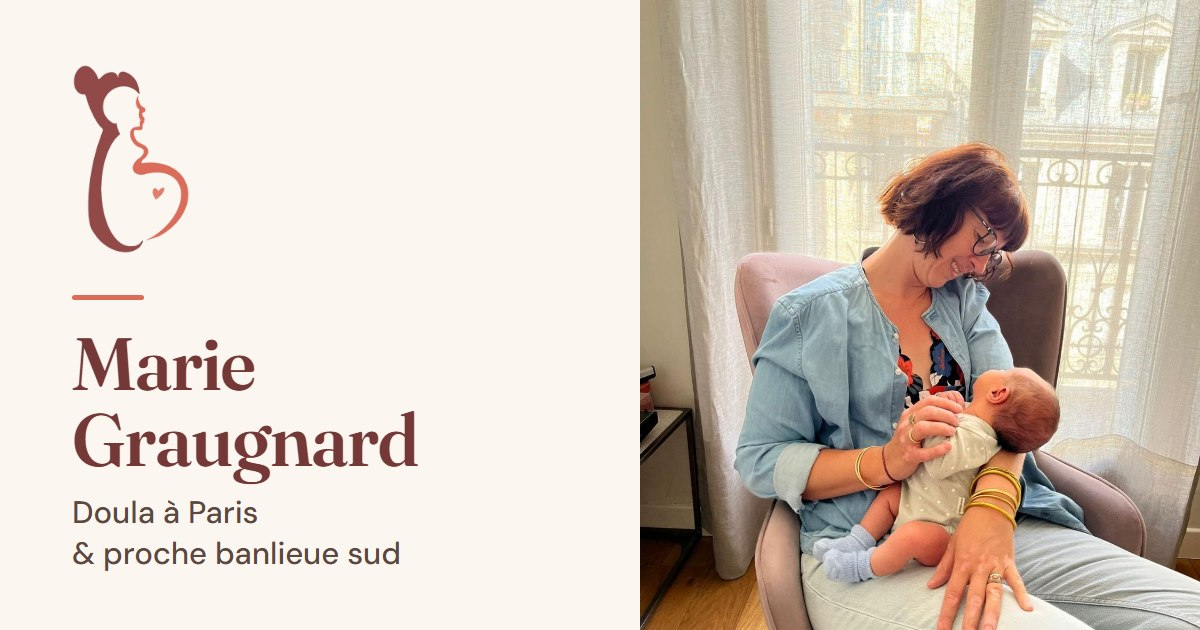
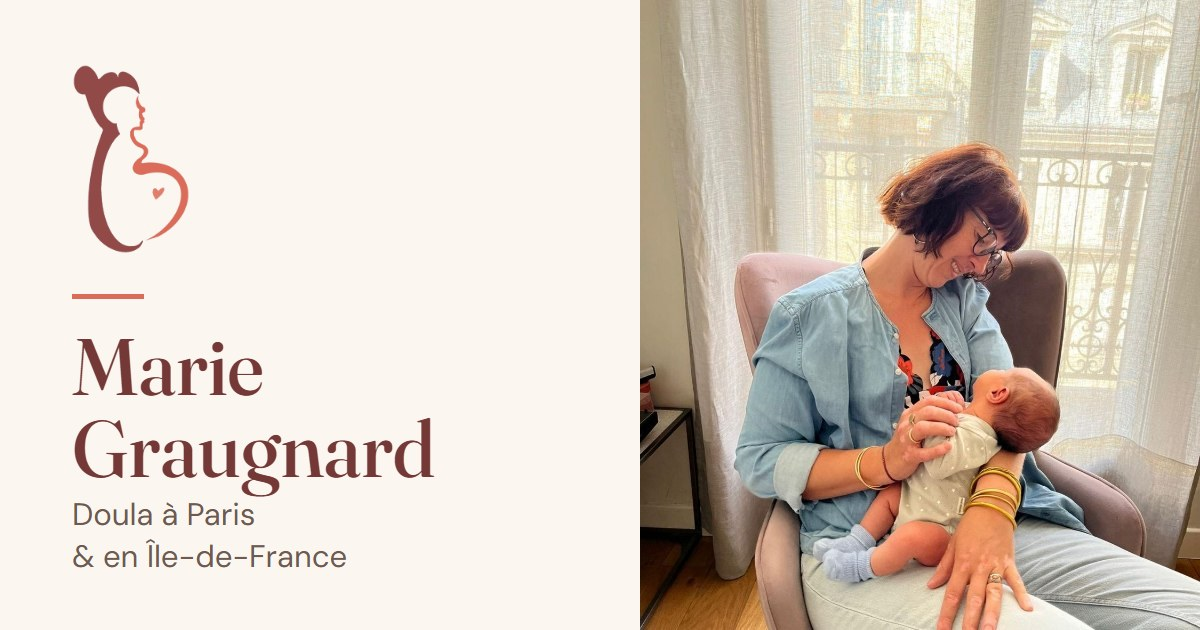
Mise en ligne sur mariegraugnard.fr : site indexable, image de partage à jour
- DOMAINE passe à https://mariegraugnard.fr : plus de noindex, canonical, og:url,
  og:image, sitemap.xml et robots.txt sur le vrai domaine.
- Image de partage régénérée : « Doula à Paris & en Île-de-France »
  (elle annonçait encore « proche banlieue sud »).
- Site régénéré (public/).

Changed region(s): [[0.0617, 0.5429, 0.37, 0.9048], [0.0617, 0.4524, 0.1233, 0.4825]]

diff --git a/public/index.html b/public/index.html
@@ -5,23 +5,22 @@
 <meta name="viewport" content="width=device-width, initial-scale=1">
 <title>Marie Graugnard · Doula à Paris &amp; en Île-de-France</title>
 <meta name="description" content="Doula à Paris et en Île-de-France : accompagnement de la grossesse aux premiers mois, présence à la naissance, soutien post-partum à domicile, soins rebozo. 5,0 ★ sur 28 avis.">
-<meta name="robots" content="noindex, nofollow">
 <meta property="og:title" content="Marie Graugnard · Doula à Paris &amp; en Île-de-France">
 <meta property="og:description" content="Doula à Paris et en Île-de-France : accompagnement de la grossesse aux premiers mois, présence à la naissance, soutien post-partum à domicile, soins rebozo. 5,0 ★ sur 28 avis.">
 <meta property="og:type" content="website">
 <meta property="og:locale" content="fr_FR">
-<meta property="og:url" content="https://marie-doula-site.aupropre-agency.workers.dev/">
-<meta property="og:image" content="https://marie-doula-site.aupropre-agency.workers.dev/images/partage-marie.jpg">
+<meta property="og:url" content="https://mariegraugnard.fr/">
+<meta property="og:image" content="https://mariegraugnard.fr/images/partage-marie.jpg">
 <meta property="og:image:width" content="1200">
 <meta property="og:image:height" content="630">
 <meta name="twitter:card" content="summary_large_image">
 <meta name="theme-color" content="#FBF6F0">
 <link rel="icon" type="image/png" href="/images/logo.png">
-<link rel="canonical" href="https://marie-doula-site.aupropre-agency.workers.dev/">
+<link rel="canonical" href="https://mariegraugnard.fr/">
 <link rel="preconnect" href="https://fonts.googleapis.com">
 <link rel="preconnect" href="https://fonts.gstatic.com" crossorigin>
 <link href="https://fonts.googleapis.com/css2?family=Fraunces:ital,opsz,wght@0,9..144,400;0,9..144,500;0,9..144,600;1,9..144,400&amp;family=DM+Sans:wght@400;500;600&amp;display=swap" rel="stylesheet">
-<link rel="stylesheet" href="/styles.css?v=mvwr0pli">
+<link rel="stylesheet" href="/styles.css?v=mw3rghdl">
 </head>
 <body>
 <header class="entete">
@@ -255,6 +254,6 @@
 </footer>
 <a class="flottant" href="https://wa.me/33652105482?text=Bonjour%20Marie%2C%20j%E2%80%99aimerais%20r%C3%A9server%20l%E2%80%99%C3%A9change%20t%C3%A9l%C3%A9phonique%20gratuit%20pour%20parler%20d%E2%80%99un%20accompagnement." aria-label="Écrire à Marie sur WhatsApp"><svg aria-hidden="true" width="20" height="20" viewBox="0 0 24 24" fill="none" stroke="currentColor" stroke-width="2" stroke-linecap="round" stroke-linejoin="round"><path d="M21 11.5a8.4 8.4 0 0 1-.9 3.8 8.5 8.5 0 0 1-7.6 4.7 8.4 8.4 0 0 1-3.8-.9L3 21l1.9-5.7a8.4 8.4 0 0 1-.9-3.8 8.5 8.5 0 0 1 4.7-7.6 8.4 8.4 0 0 1 3.8-.9h.5a8.5 8.5 0 0 1 8 8v.5z"/></svg><span class="sr">Écrire à Marie</span></a>
 <script src="/carrousel.js?v=${VERSION}" defer></script>
-<script src="/bulle.js?v=mvwr0pli" defer></script>
+<script src="/bulle.js?v=mw3rghdl" defer></script>
 </body>
 </html>

diff --git a/public/soutien-post-partum.html b/public/soutien-post-partum.html
@@ -5,23 +5,22 @@
 <meta name="viewport" content="width=device-width, initial-scale=1">
 <title>Soutien post-partum à domicile à Paris · Marie Graugnard, doula</title>
 <meta name="description" content="Une doula chez vous 2 à 3 fois par semaine après la naissance : repas maison, relais avec bébé, écoute. 25 €/h.">
-<meta name="robots" content="noindex, nofollow">
 <meta property="og:title" content="Soutien post-partum à domicile à Paris · Marie Graugnard, doula">
 <meta property="og:description" content="Une doula chez vous 2 à 3 fois par semaine après la naissance : repas maison, relais avec bébé, écoute. 25 €/h.">
 <meta property="og:type" content="website">
 <meta property="og:locale" content="fr_FR">
-<meta property="og:url" content="https://marie-doula-site.aupropre-agency.workers.dev/soutien-post-partum">
-<meta property="og:image" content="https://marie-doula-site.aupropre-agency.workers.dev/images/partage-marie.jpg">
+<meta property="og:url" content="https://mariegraugnard.fr/soutien-post-partum">
+<meta property="og:image" content="https://mariegraugnard.fr/images/partage-marie.jpg">
 <meta property="og:image:width" content="1200">
 <meta property="og:image:height" content="630">
 <meta name="twitter:card" content="summary_large_image">
 <meta name="theme-color" content="#FBF6F0">
 <link rel="icon" type="image/png" href="/images/logo.png">
-<link rel="canonical" href="https://marie-doula-site.aupropre-agency.workers.dev/soutien-post-partum">
+<link rel="canonical" href="https://mariegraugnard.fr/soutien-post-partum">
 <link rel="preconnect" href="https://fonts.googleapis.com">
 <link rel="preconnect" href="https://fonts.gstatic.com" crossorigin>
 <link href="https://fonts.googleapis.com/css2?family=Fraunces:ital,opsz,wght@0,9..144,400;0,9..144,500;0,9..144,600;1,9..144,400&amp;family=DM+Sans:wght@400;500;600&amp;display=swap" rel="stylesheet">
-<link rel="stylesheet" href="/styles.css?v=mvwr0pli">
+<link rel="stylesheet" href="/styles.css?v=mw3rghdl">
 </head>
 <body>
 <header class="entete">
@@ -189,6 +188,6 @@
 </div>
 </footer>
 <a class="flottant" href="https://wa.me/33652105482?text=Bonjour%20Marie%2C%20je%20suis%20int%C3%A9ress%C3%A9e%20par%20le%20soutien%20post-partum%20%C3%A0%20domicile.%20Mon%20b%C3%A9b%C3%A9%20est%20n%C3%A9%20%2F%20doit%20na%C3%AEtre%20le%20%3A%20" aria-label="Écrire à Marie sur WhatsApp"><svg aria-hidden="true" width="20" height="20" viewBox="0 0 24 24" fill="none" stroke="currentColor" stroke-width="2" stroke-linecap="round" stroke-linejoin="round"><path d="M21 11.5a8.4 8.4 0 0 1-.9 3.8 8.5 8.5 0 0 1-7.6 4.7 8.4 8.4 0 0 1-3.8-.9L3 21l1.9-5.7a8.4 8.4 0 0 1-.9-3.8 8.5 8.5 0 0 1 4.7-7.6 8.4 8.4 0 0 1 3.8-.9h.5a8.5 8.5 0 0 1 8 8v.5z"/></svg><span class="sr">Écrire à Marie</span></a>
-<script src="/bulle.js?v=mvwr0pli" defer></script>
+<script src="/bulle.js?v=mw3rghdl" defer></script>
 </body>
 </html>

diff --git a/public/qui-je-suis.html b/public/qui-je-suis.html
@@ -5,23 +5,22 @@
 <meta name="viewport" content="width=device-width, initial-scale=1">
 <title>Qui je suis · Marie Graugnard, doula à Paris</title>
 <meta name="description" content="Marie Graugnard, doula à Paris : 13 ans d’assistante maternelle, maman de trois garçons, accompagnante des futures mères, des mamans solos et du post-partum.">
-<meta name="robots" content="noindex, nofollow">
 <meta property="og:title" content="Qui je suis · Marie Graugnard, doula à Paris">
 <meta property="og:description" content="Marie Graugnard, doula à Paris : 13 ans d’assistante maternelle, maman de trois garçons, accompagnante des futures mères, des mamans solos et du post-partum.">
 <meta property="og:type" content="website">
 <meta property="og:locale" content="fr_FR">
-<meta property="og:url" content="https://marie-doula-site.aupropre-agency.workers.dev/qui-je-suis">
-<meta property="og:image" content="https://marie-doula-site.aupropre-agency.workers.dev/images/partage-marie.jpg">
+<meta property="og:url" content="https://mariegraugnard.fr/qui-je-suis">
+<meta property="og:image" content="https://mariegraugnard.fr/images/partage-marie.jpg">
 <meta property="og:image:width" content="1200">
 <meta property="og:image:height" content="630">
 <meta name="twitter:card" content="summary_large_image">
 <meta name="theme-color" content="#FBF6F0">
 <link rel="icon" type="image/png" href="/images/logo.png">
-<link rel="canonical" href="https://marie-doula-site.aupropre-agency.workers.dev/qui-je-suis">
+<link rel="canonical" href="https://mariegraugnard.fr/qui-je-suis">
 <link rel="preconnect" href="https://fonts.googleapis.com">
 <link rel="preconnect" href="https://fonts.gstatic.com" crossorigin>
 <link href="https://fonts.googleapis.com/css2?family=Fraunces:ital,opsz,wght@0,9..144,400;0,9..144,500;0,9..144,600;1,9..144,400&amp;family=DM+Sans:wght@400;500;600&amp;display=swap" rel="stylesheet">
-<link rel="stylesheet" href="/styles.css?v=mvwr0pli">
+<link rel="stylesheet" href="/styles.css?v=mw3rghdl">
 </head>
 <body>
 <header class="entete">
@@ -160,6 +159,6 @@
 </div>
 </footer>
 <a class="flottant" href="https://wa.me/33652105482?text=Bonjour%20Marie%2C%20j%E2%80%99aimerais%20r%C3%A9server%20l%E2%80%99%C3%A9change%20t%C3%A9l%C3%A9phonique%20gratuit%20pour%20parler%20d%E2%80%99un%20accompagnement." aria-label="Écrire à Marie sur WhatsApp"><svg aria-hidden="true" width="20" height="20" viewBox="0 0 24 24" fill="none" stroke="currentColor" stroke-width="2" stroke-linecap="round" stroke-linejoin="round"><path d="M21 11.5a8.4 8.4 0 0 1-.9 3.8 8.5 8.5 0 0 1-7.6 4.7 8.4 8.4 0 0 1-3.8-.9L3 21l1.9-5.7a8.4 8.4 0 0 1-.9-3.8 8.5 8.5 0 0 1 4.7-7.6 8.4 8.4 0 0 1 3.8-.9h.5a8.5 8.5 0 0 1 8 8v.5z"/></svg><span class="sr">Écrire à Marie</span></a>
-<script src="/bulle.js?v=mvwr0pli" defer></script>
+<script src="/bulle.js?v=mw3rghdl" defer></script>
 </body>
 </html>

diff --git a/public/presence-naissance.html b/public/presence-naissance.html
@@ -5,23 +5,22 @@
 <meta name="viewport" content="width=device-width, initial-scale=1">
 <title>Doula présente à la naissance à Paris · Marie Graugnard, doula</title>
 <meta name="description" content="Une doula à vos côtés pour la naissance de votre bébé à Paris : astreinte de 3 semaines et présence le jour J, 800 €.">
-<meta name="robots" content="noindex, nofollow">
 <meta property="og:title" content="Doula présente à la naissance à Paris · Marie Graugnard, doula">
 <meta property="og:description" content="Une doula à vos côtés pour la naissance de votre bébé à Paris : astreinte de 3 semaines et présence le jour J, 800 €.">
 <meta property="og:type" content="website">
 <meta property="og:locale" content="fr_FR">
-<meta property="og:url" content="https://marie-doula-site.aupropre-agency.workers.dev/presence-naissance">
-<meta property="og:image" content="https://marie-doula-site.aupropre-agency.workers.dev/images/partage-marie.jpg">
+<meta property="og:url" content="https://mariegraugnard.fr/presence-naissance">
+<meta property="og:image" content="https://mariegraugnard.fr/images/partage-marie.jpg">
 <meta property="og:image:width" content="1200">
 <meta property="og:image:height" content="630">
 <meta name="twitter:card" content="summary_large_image">
 <meta name="theme-color" content="#FBF6F0">
 <link rel="icon" type="image/png" href="/images/logo.png">
-<link rel="canonical" href="https://marie-doula-site.aupropre-agency.workers.dev/presence-naissance">
+<link rel="canonical" href="https://mariegraugnard.fr/presence-naissance">
 <link rel="preconnect" href="https://fonts.googleapis.com">
 <link rel="preconnect" href="https://fonts.gstatic.com" crossorigin>
 <link href="https://fonts.googleapis.com/css2?family=Fraunces:ital,opsz,wght@0,9..144,400;0,9..144,500;0,9..144,600;1,9..144,400&amp;family=DM+Sans:wght@400;500;600&amp;display=swap" rel="stylesheet">
-<link rel="stylesheet" href="/styles.css?v=mvwr0pli">
+<link rel="stylesheet" href="/styles.css?v=mw3rghdl">
 </head>
 <body>
 <header class="entete">
@@ -187,6 +186,6 @@
 </div>
 </footer>
 <a class="flottant" href="https://wa.me/33652105482?text=Bonjour%20Marie%2C%20j%E2%80%99aimerais%20que%20vous%20soyez%20pr%C3%A9sente%20%C3%A0%20mon%20accouchement.%20Mon%20terme%20est%20pr%C3%A9vu%20le%20%3A%20" aria-label="Écrire à Marie sur WhatsApp"><svg aria-hidden="true" width="20" height="20" viewBox="0 0 24 24" fill="none" stroke="currentColor" stroke-width="2" stroke-linecap="round" stroke-linejoin="round"><path d="M21 11.5a8.4 8.4 0 0 1-.9 3.8 8.5 8.5 0 0 1-7.6 4.7 8.4 8.4 0 0 1-3.8-.9L3 21l1.9-5.7a8.4 8.4 0 0 1-.9-3.8 8.5 8.5 0 0 1 4.7-7.6 8.4 8.4 0 0 1 3.8-.9h.5a8.5 8.5 0 0 1 8 8v.5z"/></svg><span class="sr">Écrire à Marie</span></a>
-<script src="/bulle.js?v=mvwr0pli" defer></script>
+<script src="/bulle.js?v=mw3rghdl" defer></script>
 </body>
 </html>

diff --git a/public/accompagnement-prenatal.html b/public/accompagnement-prenatal.html
@@ -5,23 +5,22 @@
 <meta name="viewport" content="width=device-width, initial-scale=1">
 <title>Accompagnement prénatal à Paris · Marie Graugnard, doula</title>
 <meta name="description" content="Accompagnement prénatal par une doula à Paris : projet de naissance, préparation du jour J et du post-partum. 60 €/h.">
-<meta name="robots" content="noindex, nofollow">
 <meta property="og:title" content="Accompagnement prénatal à Paris · Marie Graugnard, doula">
 <meta property="og:description" content="Accompagnement prénatal par une doula à Paris : projet de naissance, préparation du jour J et du post-partum. 60 €/h.">
 <meta property="og:type" content="website">
 <meta property="og:locale" content="fr_FR">
-<meta property="og:url" content="https://marie-doula-site.aupropre-agency.workers.dev/accompagnement-prenatal">
-<meta property="og:image" content="https://marie-doula-site.aupropre-agency.workers.dev/images/partage-marie.jpg">
+<meta property="og:url" content="https://mariegraugnard.fr/accompagnement-prenatal">
+<meta property="og:image" content="https://mariegraugnard.fr/images/partage-marie.jpg">
 <meta property="og:image:width" content="1200">
 <meta property="og:image:height" content="630">
 <meta name="twitter:card" content="summary_large_image">
 <meta name="theme-color" content="#FBF6F0">
 <link rel="icon" type="image/png" href="/images/logo.png">
-<link rel="canonical" href="https://marie-doula-site.aupropre-agency.workers.dev/accompagnement-prenatal">
+<link rel="canonical" href="https://mariegraugnard.fr/accompagnement-prenatal">
 <link rel="preconnect" href="https://fonts.googleapis.com">
 <link rel="preconnect" href="https://fonts.gstatic.com" crossorigin>
 <link href="https://fonts.googleapis.com/css2?family=Fraunces:ital,opsz,wght@0,9..144,400;0,9..144,500;0,9..144,600;1,9..144,400&amp;family=DM+Sans:wght@400;500;600&amp;display=swap" rel="stylesheet">
-<link rel="stylesheet" href="/styles.css?v=mvwr0pli">
+<link rel="stylesheet" href="/styles.css?v=mw3rghdl">
 </head>
 <body>
 <header class="entete">
@@ -184,6 +183,6 @@
 </div>
 </footer>
 <a class="flottant" href="https://wa.me/33652105482?text=Bonjour%20Marie%2C%20je%20suis%20enceinte%20de%20%E2%80%A6%20mois%20et%20j%E2%80%99aimerais%20%C3%AAtre%20accompagn%C3%A9e%20pendant%20ma%20grossesse." aria-label="Écrire à Marie sur WhatsApp"><svg aria-hidden="true" width="20" height="20" viewBox="0 0 24 24" fill="none" stroke="currentColor" stroke-width="2" stroke-linecap="round" stroke-linejoin="round"><path d="M21 11.5a8.4 8.4 0 0 1-.9 3.8 8.5 8.5 0 0 1-7.6 4.7 8.4 8.4 0 0 1-3.8-.9L3 21l1.9-5.7a8.4 8.4 0 0 1-.9-3.8 8.5 8.5 0 0 1 4.7-7.6 8.4 8.4 0 0 1 3.8-.9h.5a8.5 8.5 0 0 1 8 8v.5z"/></svg><span class="sr">Écrire à Marie</span></a>
-<script src="/bulle.js?v=mvwr0pli" defer></script>
+<script src="/bulle.js?v=mw3rghdl" defer></script>
 </body>
 </html>

diff --git a/public/rendez-vous-postnatal.html b/public/rendez-vous-postnatal.html
@@ -5,23 +5,22 @@
 <meta name="viewport" content="width=device-width, initial-scale=1">
 <title>Rendez-vous postnatal avec une doula à Paris · Marie Graugnard, doula</title>
 <meta name="description" content="Rendez-vous postnatal avec une doula à Paris : récit de naissance, portage, premiers pas de jeune maman. 60 €/h.">
-<meta name="robots" content="noindex, nofollow">
 <meta property="og:title" content="Rendez-vous postnatal avec une doula à Paris · Marie Graugnard, doula">
 <meta property="og:description" content="Rendez-vous postnatal avec une doula à Paris : récit de naissance, portage, premiers pas de jeune maman. 60 €/h.">
 <meta property="og:type" content="website">
 <meta property="og:locale" content="fr_FR">
-<meta property="og:url" content="https://marie-doula-site.aupropre-agency.workers.dev/rendez-vous-postnatal">
-<meta property="og:image" content="https://marie-doula-site.aupropre-agency.workers.dev/images/partage-marie.jpg">
+<meta property="og:url" content="https://mariegraugnard.fr/rendez-vous-postnatal">
+<meta property="og:image" content="https://mariegraugnard.fr/images/partage-marie.jpg">
 <meta property="og:image:width" content="1200">
 <meta property="og:image:height" content="630">
 <meta name="twitter:card" content="summary_large_image">
 <meta name="theme-color" content="#FBF6F0">
 <link rel="icon" type="image/png" href="/images/logo.png">
-<link rel="canonical" href="https://marie-doula-site.aupropre-agency.workers.dev/rendez-vous-postnatal">
+<link rel="canonical" href="https://mariegraugnard.fr/rendez-vous-postnatal">
 <link rel="preconnect" href="https://fonts.googleapis.com">
 <link rel="preconnect" href="https://fonts.gstatic.com" crossorigin>
 <link href="https://fonts.googleapis.com/css2?family=Fraunces:ital,opsz,wght@0,9..144,400;0,9..144,500;0,9..144,600;1,9..144,400&amp;family=DM+Sans:wght@400;500;600&amp;display=swap" rel="stylesheet">
-<link rel="stylesheet" href="/styles.css?v=mvwr0pli">
+<link rel="stylesheet" href="/styles.css?v=mw3rghdl">
 </head>
 <body>
 <header class="entete">
@@ -185,6 +184,6 @@
 </div>
 </footer>
 <a class="flottant" href="https://wa.me/33652105482?text=Bonjour%20Marie%2C%20j%E2%80%99ai%20accouch%C3%A9%20il%20y%20a%20%E2%80%A6%20et%20j%E2%80%99aimerais%20un%20rendez-vous%20postnatal." aria-label="Écrire à Marie sur WhatsApp"><svg aria-hidden="true" width="20" height="20" viewBox="0 0 24 24" fill="none" stroke="currentColor" stroke-width="2" stroke-linecap="round" stroke-linejoin="round"><path d="M21 11.5a8.4 8.4 0 0 1-.9 3.8 8.5 8.5 0 0 1-7.6 4.7 8.4 8.4 0 0 1-3.8-.9L3 21l1.9-5.7a8.4 8.4 0 0 1-.9-3.8 8.5 8.5 0 0 1 4.7-7.6 8.4 8.4 0 0 1 3.8-.9h.5a8.5 8.5 0 0 1 8 8v.5z"/></svg><span class="sr">Écrire à Marie</span></a>
-<script src="/bulle.js?v=mvwr0pli" defer></script>
+<script src="/bulle.js?v=mw3rghdl" defer></script>
 </body>
 </html>

diff --git a/public/rituel-rebozo.html b/public/rituel-rebozo.html
@@ -5,23 +5,22 @@
 <meta name="viewport" content="width=device-width, initial-scale=1">
 <title>Rituel rebozo à 4 mains à Paris 13e · Marie Graugnard, doula</title>
 <meta name="description" content="Le rituel rebozo à 4 mains : 3 heures avec deux doulas, massage à l’huile, bain aux plantes et serrage en 7 points, à Paris 13e. 380 €.">
-<meta name="robots" content="noindex, nofollow">
 <meta property="og:title" content="Rituel rebozo à 4 mains à Paris 13e · Marie Graugnard, doula">
 <meta property="og:description" content="Le rituel rebozo à 4 mains : 3 heures avec deux doulas, massage à l’huile, bain aux plantes et serrage en 7 points, à Paris 13e. 380 €.">
 <meta property="og:type" content="website">
 <meta property="og:locale" content="fr_FR">
-<meta property="og:url" content="https://marie-doula-site.aupropre-agency.workers.dev/rituel-rebozo">
-<meta property="og:image" content="https://marie-doula-site.aupropre-agency.workers.dev/images/partage-marie.jpg">
+<meta property="og:url" content="https://mariegraugnard.fr/rituel-rebozo">
+<meta property="og:image" content="https://mariegraugnard.fr/images/partage-marie.jpg">
 <meta property="og:image:width" content="1200">
 <meta property="og:image:height" content="630">
 <meta name="twitter:card" content="summary_large_image">
 <meta name="theme-color" content="#FBF6F0">
 <link rel="icon" type="image/png" href="/images/logo.png">
-<link rel="canonical" href="https://marie-doula-site.aupropre-agency.workers.dev/rituel-rebozo">
+<link rel="canonical" href="https://mariegraugnard.fr/rituel-rebozo">
 <link rel="preconnect" href="https://fonts.googleapis.com">
 <link rel="preconnect" href="https://fonts.gstatic.com" crossorigin>
 <link href="https://fonts.googleapis.com/css2?family=Fraunces:ital,opsz,wght@0,9..144,400;0,9..144,500;0,9..144,600;1,9..144,400&amp;family=DM+Sans:wght@400;500;600&amp;display=swap" rel="stylesheet">
-<link rel="stylesheet" href="/styles.css?v=mvwr0pli">
+<link rel="stylesheet" href="/styles.css?v=mw3rghdl">
 </head>
 <body>
 <header class="entete">
@@ -175,6 +174,6 @@
 </div>
 </footer>
 <a class="flottant" href="https://wa.me/33652105482?text=Bonjour%20Marie%2C%20j%E2%80%99aimerais%20r%C3%A9server%20un%20rituel%20rebozo%20%C3%A0%204%20mains." aria-label="Réserver le rituel sur WhatsApp"><svg aria-hidden="true" width="20" height="20" viewBox="0 0 24 24" fill="none" stroke="currentColor" stroke-width="2" stroke-linecap="round" stroke-linejoin="round"><path d="M21 11.5a8.4 8.4 0 0 1-.9 3.8 8.5 8.5 0 0 1-7.6 4.7 8.4 8.4 0 0 1-3.8-.9L3 21l1.9-5.7a8.4 8.4 0 0 1-.9-3.8 8.5 8.5 0 0 1 4.7-7.6 8.4 8.4 0 0 1 3.8-.9h.5a8.5 8.5 0 0 1 8 8v.5z"/></svg><span class="sr">Réserver le rituel</span></a>
-<script src="/bulle.js?v=mvwr0pli" defer></script>
+<script src="/bulle.js?v=mw3rghdl" defer></script>
 </body>
 </html>

diff --git a/public/instant-rebozo.html b/public/instant-rebozo.html
@@ -5,23 +5,22 @@
 <meta name="viewport" content="width=device-width, initial-scale=1">
 <title>Soin rebozo à Paris 13e · Marie Graugnard, doula</title>
 <meta name="description" content="L’instant rebozo : 1 h 30 de bercements et de serrages avec les tissus rebozo, chez vous ou à Paris 13e. 120 €. Bébé bienvenu.">
-<meta name="robots" content="noindex, nofollow">
 <meta property="og:title" content="Soin rebozo à Paris 13e · Marie Graugnard, doula">
 <meta property="og:description" content="L’instant rebozo : 1 h 30 de bercements et de serrages avec les tissus rebozo, chez vous ou à Paris 13e. 120 €. Bébé bienvenu.">
 <meta property="og:type" content="website">
 <meta property="og:locale" content="fr_FR">
-<meta property="og:url" content="https://marie-doula-site.aupropre-agency.workers.dev/instant-rebozo">
-<meta property="og:image" content="https://marie-doula-site.aupropre-agency.workers.dev/images/partage-marie.jpg">
+<meta property="og:url" content="https://mariegraugnard.fr/instant-rebozo">
+<meta property="og:image" content="https://mariegraugnard.fr/images/partage-marie.jpg">
 <meta property="og:image:width" content="1200">
 <meta property="og:image:height" content="630">
 <meta name="twitter:card" content="summary_large_image">
 <meta name="theme-color" content="#FBF6F0">
 <link rel="icon" type="image/png" href="/images/logo.png">
-<link rel="canonical" href="https://marie-doula-site.aupropre-agency.workers.dev/instant-rebozo">
+<link rel="canonical" href="https://mariegraugnard.fr/instant-rebozo">
 <link rel="preconnect" href="https://fonts.googleapis.com">
 <link rel="preconnect" href="https://fonts.gstatic.com" crossorigin>
 <link href="https://fonts.googleapis.com/css2?family=Fraunces:ital,opsz,wght@0,9..144,400;0,9..144,500;0,9..144,600;1,9..144,400&amp;family=DM+Sans:wght@400;500;600&amp;display=swap" rel="stylesheet">
-<link rel="stylesheet" href="/styles.css?v=mvwr0pli">
+<link rel="stylesheet" href="/styles.css?v=mw3rghdl">
 </head>
 <body>
 <header class="entete">
@@ -183,6 +182,6 @@
 </div>
 </footer>
 <a class="flottant" href="https://wa.me/33652105482?text=Bonjour%20Marie%2C%20j%E2%80%99aimerais%20r%C3%A9server%20un%20instant%20rebozo." aria-label="Réserver un instant rebozo sur WhatsApp"><svg aria-hidden="true" width="20" height="20" viewBox="0 0 24 24" fill="none" stroke="currentColor" stroke-width="2" stroke-linecap="round" stroke-linejoin="round"><path d="M21 11.5a8.4 8.4 0 0 1-.9 3.8 8.5 8.5 0 0 1-7.6 4.7 8.4 8.4 0 0 1-3.8-.9L3 21l1.9-5.7a8.4 8.4 0 0 1-.9-3.8 8.5 8.5 0 0 1 4.7-7.6 8.4 8.4 0 0 1 3.8-.9h.5a8.5 8.5 0 0 1 8 8v.5z"/></svg><span class="sr">Réserver un instant rebozo</span></a>
-<script src="/bulle.js?v=mvwr0pli" defer></script>
+<script src="/bulle.js?v=mw3rghdl" defer></script>
 </body>
 </html>

diff --git a/public/mama-blessing.html b/public/mama-blessing.html
@@ -5,23 +5,22 @@
 <meta name="viewport" content="width=device-width, initial-scale=1">
 <title>Mama Blessing à Paris · Marie Graugnard, doula</title>
 <meta name="description" content="Le Mama Blessing : une cérémonie de 3 heures pour célébrer la future maman, entourée des femmes qui comptent pour elle. 340 €.">
-<meta name="robots" content="noindex, nofollow">
 <meta property="og:title" content="Mama Blessing à Paris · Marie Graugnard, doula">
 <meta property="og:description" content="Le Mama Blessing : une cérémonie de 3 heures pour célébrer la future maman, entourée des femmes qui comptent pour elle. 340 €.">
 <meta property="og:type" content="website">
 <meta property="og:locale" content="fr_FR">
-<meta property="og:url" content="https://marie-doula-site.aupropre-agency.workers.dev/mama-blessing">
-<meta property="og:image" content="https://marie-doula-site.aupropre-agency.workers.dev/images/partage-marie.jpg">
+<meta property="og:url" content="https://mariegraugnard.fr/mama-blessing">
+<meta property="og:image" content="https://mariegraugnard.fr/images/partage-marie.jpg">
 <meta property="og:image:width" content="1200">
 <meta property="og:image:height" content="630">
 <meta name="twitter:card" content="summary_large_image">
 <meta name="theme-color" content="#FBF6F0">
 <link rel="icon" type="image/png" href="/images/logo.png">
-<link rel="canonical" href="https://marie-doula-site.aupropre-agency.workers.dev/mama-blessing">
+<link rel="canonical" href="https://mariegraugnard.fr/mama-blessing">
 <link rel="preconnect" href="https://fonts.googleapis.com">
 <link rel="preconnect" href="https://fonts.gstatic.com" crossorigin>
 <link href="https://fonts.googleapis.com/css2?family=Fraunces:ital,opsz,wght@0,9..144,400;0,9..144,500;0,9..144,600;1,9..144,400&amp;family=DM+Sans:wght@400;500;600&amp;display=swap" rel="stylesheet">
-<link rel="stylesheet" href="/styles.css?v=mvwr0pli">
+<link rel="stylesheet" href="/styles.css?v=mw3rghdl">
 </head>
 <body>
 <header class="entete">
@@ -162,6 +161,6 @@
 </div>
 </footer>
 <a class="flottant" href="https://wa.me/33652105482?text=Bonjour%20Marie%2C%20j%E2%80%99aimerais%20organiser%20un%20Mama%20Blessing%20pour%20%3A%20" aria-label="Organiser un Mama Blessing sur WhatsApp"><svg aria-hidden="true" width="20" height="20" viewBox="0 0 24 24" fill="none" stroke="currentColor" stroke-width="2" stroke-linecap="round" stroke-linejoin="round"><path d="M21 11.5a8.4 8.4 0 0 1-.9 3.8 8.5 8.5 0 0 1-7.6 4.7 8.4 8.4 0 0 1-3.8-.9L3 21l1.9-5.7a8.4 8.4 0 0 1-.9-3.8 8.5 8.5 0 0 1 4.7-7.6 8.4 8.4 0 0 1 3.8-.9h.5a8.5 8.5 0 0 1 8 8v.5z"/></svg><span class="sr">Organiser un Mama Blessing</span></a>
-<script src="/bulle.js?v=mvwr0pli" defer></script>
+<script src="/bulle.js?v=mw3rghdl" defer></script>
 </body>
 </html>

diff --git a/public/mentions-legales.html b/public/mentions-legales.html
@@ -5,23 +5,22 @@
 <meta name="viewport" content="width=device-width, initial-scale=1">
 <title>Mentions légales · Marie Graugnard, doula</title>
 <meta name="description" content="Mentions légales et politique de confidentialité du site de Marie Graugnard, doula à Paris.">
-<meta name="robots" content="noindex, nofollow">
 <meta property="og:title" content="Mentions légales · Marie Graugnard, doula">
 <meta property="og:description" content="Mentions légales et politique de confidentialité du site de Marie Graugnard, doula à Paris.">
 <meta property="og:type" content="website">
 <meta property="og:locale" content="fr_FR">
-<meta property="og:url" content="https://marie-doula-site.aupropre-agency.workers.dev/mentions-legales">
-<meta property="og:image" content="https://marie-doula-site.aupropre-agency.workers.dev/images/partage-marie.jpg">
+<meta property="og:url" content="https://mariegraugnard.fr/mentions-legales">
+<meta property="og:image" content="https://mariegraugnard.fr/images/partage-marie.jpg">
 <meta property="og:image:width" content="1200">
 <meta property="og:image:height" content="630">
 <meta name="twitter:card" content="summary_large_image">
 <meta name="theme-color" content="#FBF6F0">
 <link rel="icon" type="image/png" href="/images/logo.png">
-<link rel="canonical" href="https://marie-doula-site.aupropre-agency.workers.dev/mentions-legales">
+<link rel="canonical" href="https://mariegraugnard.fr/mentions-legales">
 <link rel="preconnect" href="https://fonts.googleapis.com">
 <link rel="preconnect" href="https://fonts.gstatic.com" crossorigin>
 <link href="https://fonts.googleapis.com/css2?family=Fraunces:ital,opsz,wght@0,9..144,400;0,9..144,500;0,9..144,600;1,9..144,400&amp;family=DM+Sans:wght@400;500;600&amp;display=swap" rel="stylesheet">
-<link rel="stylesheet" href="/styles.css?v=mvwr0pli">
+<link rel="stylesheet" href="/styles.css?v=mw3rghdl">
 </head>
 <body>
 <header class="entete">
@@ -91,6 +90,6 @@
 </div>
 </footer>
 <a class="flottant" href="https://wa.me/33652105482?text=Bonjour%20Marie%2C%20j%E2%80%99aimerais%20r%C3%A9server%20l%E2%80%99%C3%A9change%20t%C3%A9l%C3%A9phonique%20gratuit%20pour%20parler%20d%E2%80%99un%20accompagnement." aria-label="Écrire à Marie sur WhatsApp"><svg aria-hidden="true" width="20" height="20" viewBox="0 0 24 24" fill="none" stroke="currentColor" stroke-width="2" stroke-linecap="round" stroke-linejoin="round"><path d="M21 11.5a8.4 8.4 0 0 1-.9 3.8 8.5 8.5 0 0 1-7.6 4.7 8.4 8.4 0 0 1-3.8-.9L3 21l1.9-5.7a8.4 8.4 0 0 1-.9-3.8 8.5 8.5 0 0 1 4.7-7.6 8.4 8.4 0 0 1 3.8-.9h.5a8.5 8.5 0 0 1 8 8v.5z"/></svg><span class="sr">Écrire à Marie</span></a>
-<script src="/bulle.js?v=mvwr0pli" defer></script>
+<script src="/bulle.js?v=mw3rghdl" defer></script>
 </body>
 </html>
